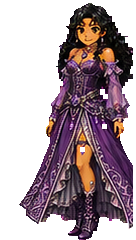
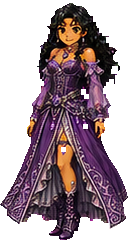
fix: usa as 3 folhas reais de idle/walk/run da Wins/Huans (não 1 repetida)
Você mandou 3 folhas por personagem — idle, walk e run, cada uma com
movimento de perna/cabelo/roupa diferente. Eu tratei como variações de
estilo e usei só 1 (a de idle) pra tudo, por isso "as pernas não se
mexiam" ao andar: a arte de idle mal tem variação de perna entre frames.

- Processadas as 6 folhas (3 por personagem), cada uma virando um
  arquivo separado (winsIdle/winsWalk/winsRun, huansIdle/huansWalk/
  huansRun), como o Akles já faz (sheet por animação)
- scripts/process-wins.mjs: detecção de coluna por projeção de alpha
  (ancora cada fronteira na posição uniforme esperada e desliza pro
  ponto mais fino por perto) em vez de assumir grid perfeitamente
  uniforme — evita cortar o personagem quando a folha de origem não
  alinha as 10 colunas com exatidão; com validação de fallback pra
  divisão uniforme por linha/frame quando a detecção falha
- engine.ts: WINS_ANIM/HUANS_ANIM agora apontam idle/walk/run pra
  sheets diferentes, cada uma com disp calibrado pra a mesma altura
  final (~58px) apesar de vir de artes com proporção de origem diferente

diff --git a/src/game/engine.ts b/src/game/engine.ts
@@ -106,27 +106,29 @@ const AKLES_DISP_SCALE = 0.35;
 const AKLES_DIR_ROW: Record<Direction, number> = { down: 0, left: 1, up: 2, right: 3 };
 
 // ---- Wins — classe da Voz (personagem temporária) ----
-// Um sheet só (corrida, 10 col x 4 lin) reaproveitado pra idle/walk/run —
-// só muda a velocidade de reprodução, igual ao Akles. Célula processada
-// em scripts/process-wins.mjs (chroma-key com descontaminação de cor +
-// erosão de 2px + filtro de maior blob conectado por frame — sem franja
-// magenta e sem sobra de linha vizinha): 136x240, pés ancorados embaixo.
-const WINS_DISP = 0.24;
+// 3 folhas SEPARADAS (idle/walk/run são animações diferentes de verdade,
+// cada uma com sua própria arte — não a mesma reaproveitada 3x). Cada
+// célula processada em scripts/process-wins.mjs tem um tamanho de origem
+// diferente; o disp de cada estado é calibrado pra bater na MESMA altura
+// final na tela (~58px) apesar disso. cw/ch abaixo são só fallback — o
+// motor deriva o tamanho real da imagem já carregada (ver drawPlayer).
+const WINS_TARGET_H = 58;
 const WINS_ANIM: Record<'idle' | 'walk' | 'run', AklesAnimMeta> = {
-  idle: { sheet: 'winsMove', cw: 136, ch: 240, cols: 10, fps: 6, loop: true, disp: WINS_DISP, feetFrac: 1 },
-  walk: { sheet: 'winsMove', cw: 136, ch: 240, cols: 10, fps: 10, loop: true, disp: WINS_DISP, feetFrac: 1 },
-  run: { sheet: 'winsMove', cw: 136, ch: 240, cols: 10, fps: 15, loop: true, disp: WINS_DISP, feetFrac: 1 },
+  idle: { sheet: 'winsIdle', cw: 128, ch: 240, cols: 10, fps: 6, loop: true, disp: WINS_TARGET_H / 240, feetFrac: 1 },
+  walk: { sheet: 'winsWalk', cw: 124, ch: 209, cols: 10, fps: 10, loop: true, disp: WINS_TARGET_H / 209, feetFrac: 1 },
+  run: { sheet: 'winsRun', cw: 130, ch: 209, cols: 10, fps: 15, loop: true, disp: WINS_TARGET_H / 209, feetFrac: 1 },
 };
 // ordem visual do sheet da Wins: 0=frente 1=esquerda 2=direita 3=costas
 const WINS_DIR_ROW: Record<Direction, number> = { down: 0, left: 1, right: 2, up: 3 };
 
 // ---- Huans — classe Cordas (personagem temporário) ----
-// Célula processada em scripts/process-wins.mjs (mesmo pipeline): 144x211.
-const HUANS_DISP = 0.27;
+// Mesma lógica: 3 folhas separadas, disp calibrado por estado pra altura
+// final consistente (~58px).
+const HUANS_TARGET_H = 58;
 const HUANS_ANIM: Record<'idle' | 'walk' | 'run', AklesAnimMeta> = {
-  idle: { sheet: 'huansMove', cw: 144, ch: 211, cols: 10, fps: 6, loop: true, disp: HUANS_DISP, feetFrac: 1 },
-  walk: { sheet: 'huansMove', cw: 144, ch: 211, cols: 10, fps: 11, loop: true, disp: HUANS_DISP, feetFrac: 1 },
-  run: { sheet: 'huansMove', cw: 144, ch: 211, cols: 10, fps: 17, loop: true, disp: HUANS_DISP, feetFrac: 1 },
+  idle: { sheet: 'huansIdle', cw: 91, ch: 211, cols: 10, fps: 6, loop: true, disp: HUANS_TARGET_H / 211, feetFrac: 1 },
+  walk: { sheet: 'huansWalk', cw: 87, ch: 199, cols: 10, fps: 11, loop: true, disp: HUANS_TARGET_H / 199, feetFrac: 1 },
+  run: { sheet: 'huansRun', cw: 118, ch: 181, cols: 10, fps: 17, loop: true, disp: HUANS_TARGET_H / 181, feetFrac: 1 },
 };
 const HUANS_DIR_ROW: Record<Direction, number> = { down: 0, left: 1, right: 2, up: 3 };
 

diff --git a/src/game/assetLoader.ts b/src/game/assetLoader.ts
@@ -238,11 +238,16 @@ const ASSET_PATHS: Record<keyof LoadedAssets, string> = {
   npcSeminima: '/assets/characters/npcs/seminima.png',
   npcDiapasao: '/assets/characters/npcs/diapasao.png',
 
-  // Wins - Classe da Voz (personagem temporária)
-  winsMove: '/assets/characters/wins/wins_move.png',
+  // Wins - Classe da Voz (personagem temporária) — 3 folhas separadas
+  // (idle/walk/run são animações DIFERENTES, não a mesma reaproveitada).
+  winsIdle: '/assets/characters/wins/wins_idle.png',
+  winsWalk: '/assets/characters/wins/wins_walk.png',
+  winsRun: '/assets/characters/wins/wins_run.png',
   winsIcon: '/assets/characters/wins/wins_icon.png',
-  // Huans - Classe Cordas (personagem temporária)
-  huansMove: '/assets/characters/huans/huans_move.png',
+  // Huans - Classe Cordas (personagem temporária) — idem, 3 folhas.
+  huansIdle: '/assets/characters/huans/huans_idle.png',
+  huansWalk: '/assets/characters/huans/huans_walk.png',
+  huansRun: '/assets/characters/huans/huans_run.png',
   huansIcon: '/assets/characters/huans/huans_icon.png',
 
   // Akles - Herói Cavaleiro
